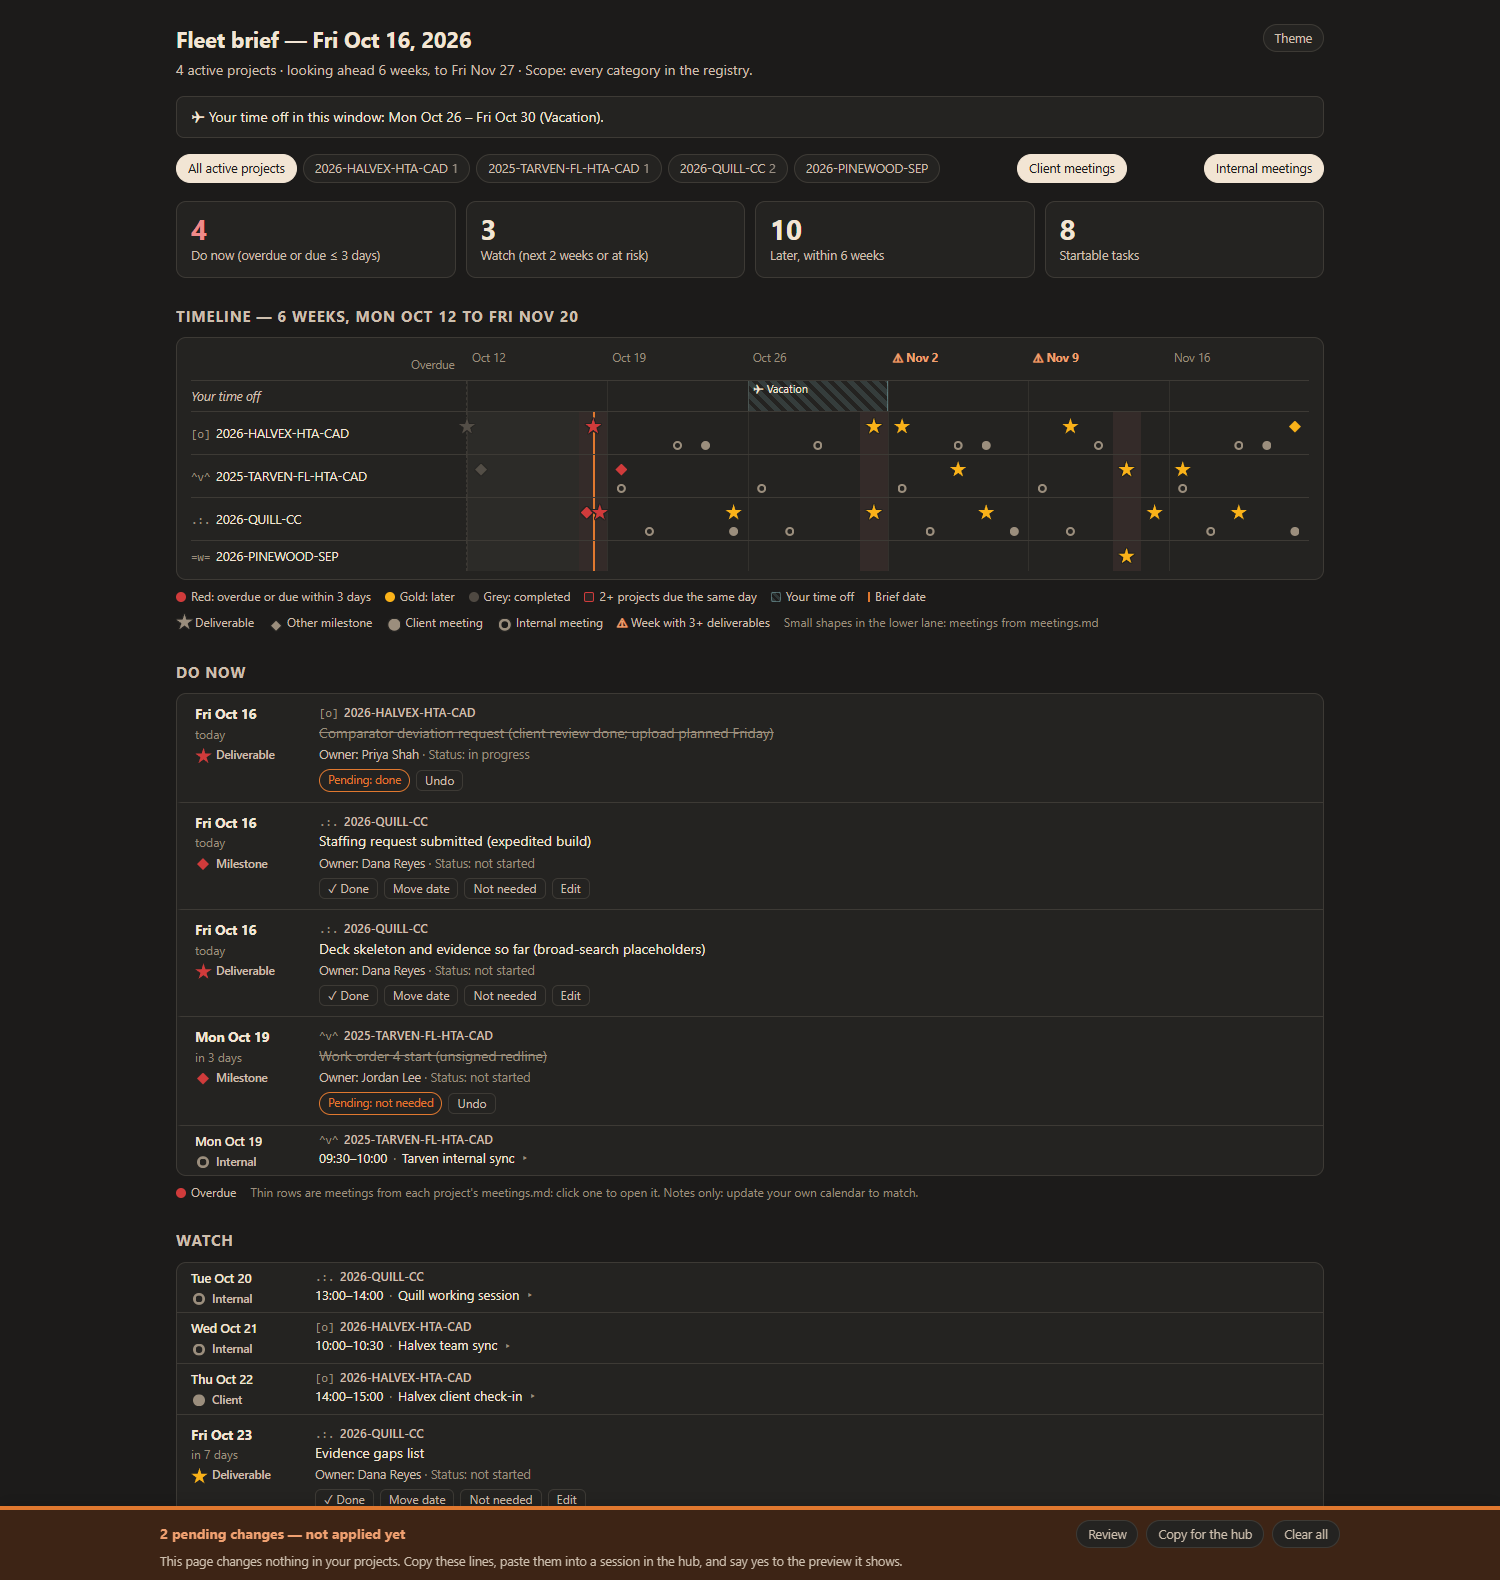
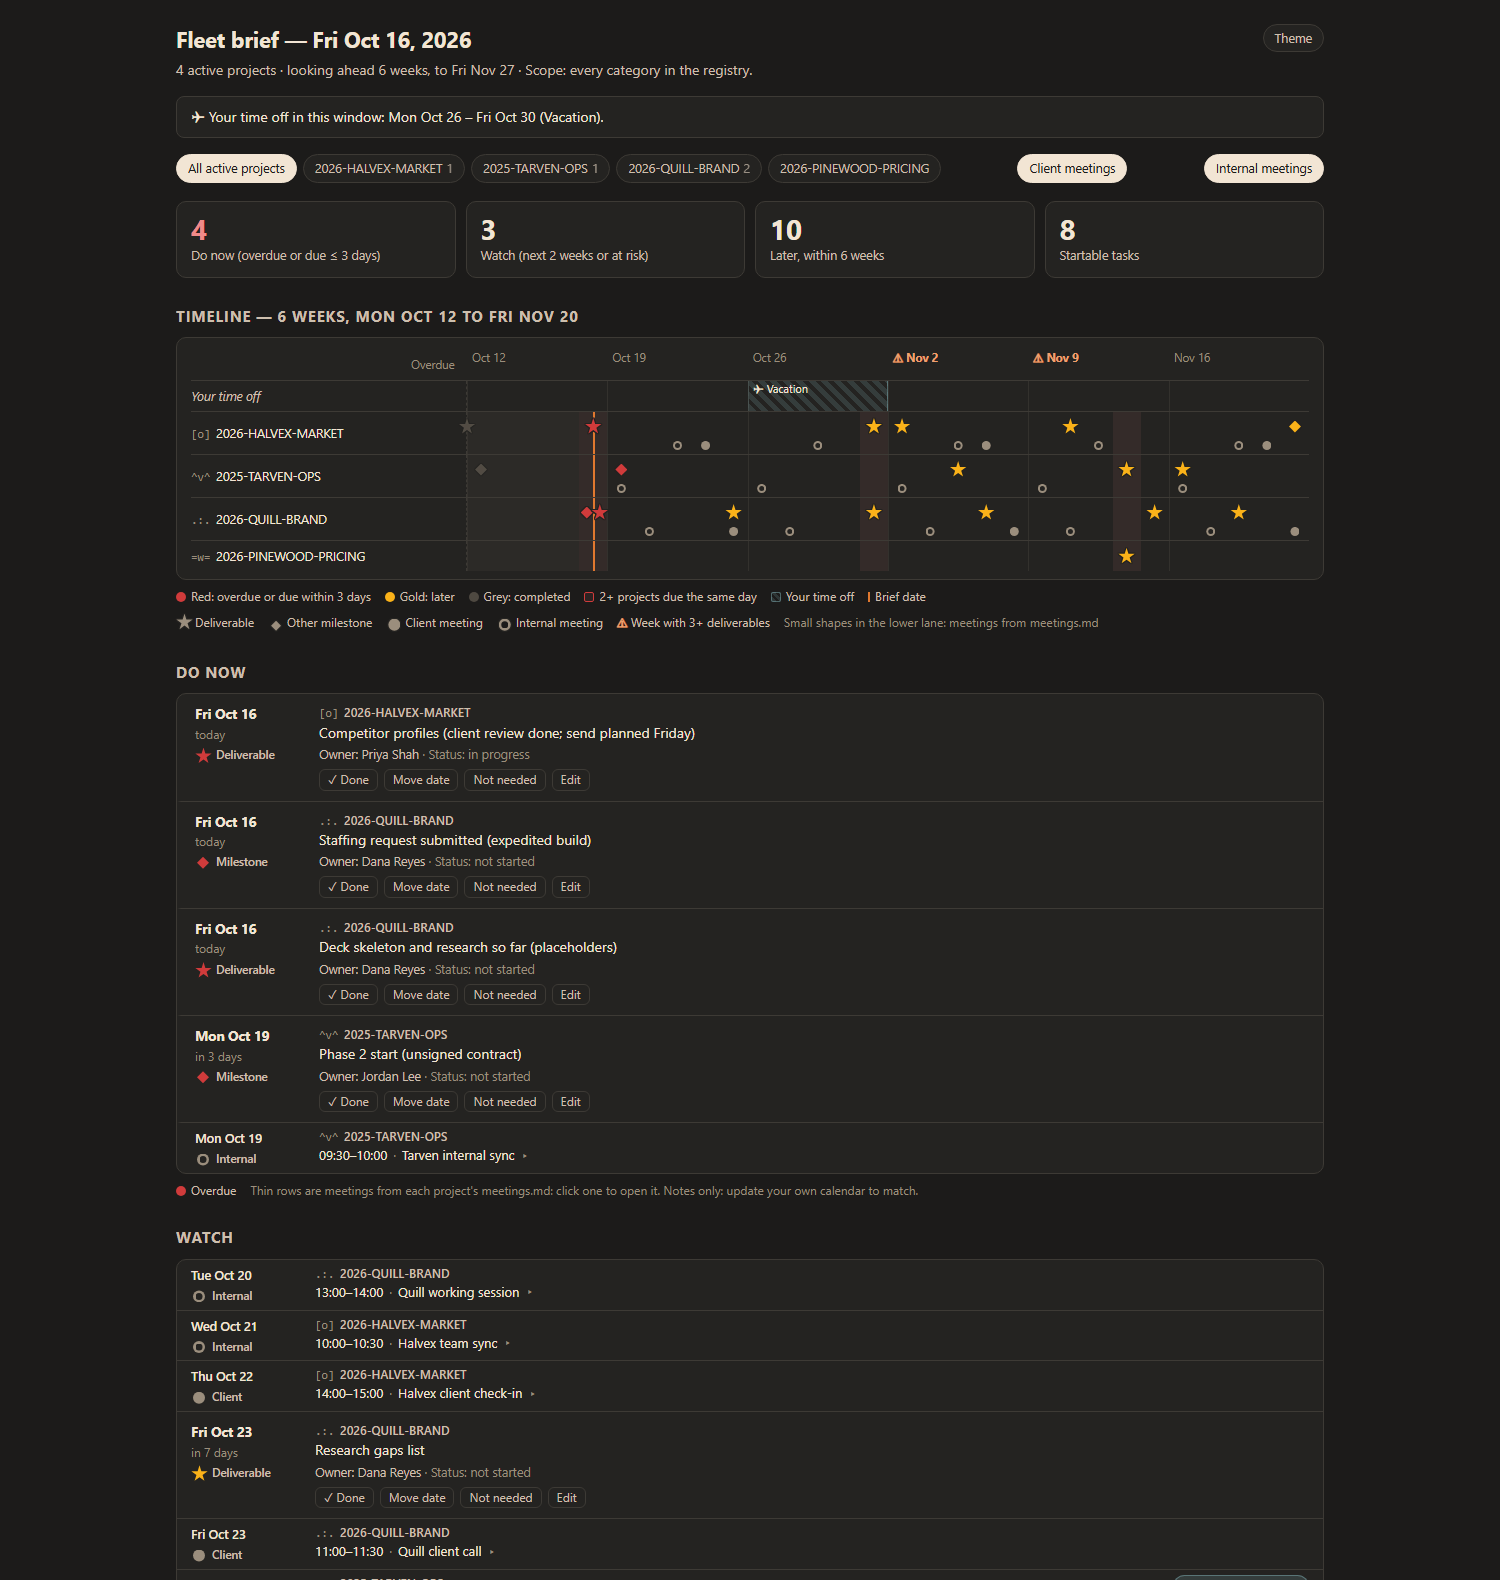
familiar-hub 1.0.1: bundled project_check from core 1.0.1, generic fleet screenshot

diff --git a/scripts/bundled/project_check.py b/scripts/bundled/project_check.py
@@ -81,7 +81,7 @@ INDEX_PATH_LIMIT = 200
 INDEX_BYTES_LIMIT = 20 * 1024
 SCRATCH_BYTES_LIMIT = 50 * 1024 * 1024
 SCRATCH_AGE_DAYS = 14
-TOP_LEVEL_OK = re.compile(r"^(\d-.*|_del|_backups|\.(agents|claude|codex|gemini|familiar|scratch|git|github|vscode|idea|obsidian))$")
+TOP_LEVEL_OK = re.compile(r"^(\d-.*|_del|_backups|_update|\.(agents|claude|codex|gemini|familiar|scratch|git|github|vscode|idea|obsidian))$")
 TOP_LEVEL_TMP = re.compile(r"(tmp|temp|scratch|cache)", re.IGNORECASE)
 
 
@@ -475,6 +475,36 @@ def check_pages(root: Path, r: Report):
               + (" …" if len(unstamped) > 8 else ""))
 
 
+def check_review_dates(root: Path, today: date, r: Report):
+    """Knowledge pages past their `review_by` date (ingest.md → Source dates and conflicts). A page
+    already superseded, or with no ISO date ("not scheduled"), is skipped. Reports only; it never
+    re-dates or rewrites a page."""
+    folder = root / "3-Knowledge"
+    if not folder.is_dir():
+        return
+    try:
+        sys.dont_write_bytecode = True
+        sys.path.insert(0, str(Path(__file__).resolve().parent))
+        import index_check
+    except ImportError:
+        return
+    overdue = []
+    for page in sorted(folder.glob("*.md")):
+        if page.name.startswith("_"):
+            continue
+        fm = index_check.front_matter(read(page))
+        if index_check.page_names(fm.get("superseded_by", "")):
+            continue
+        dates = iso_dates(fm.get("review_by", ""))
+        if dates and dates[0] < today:
+            overdue.append(f"{page.name} (review by {dates[0]})")
+    if overdue:
+        level, prefix = ("attention", "") if r.lifecycle == "active" else ("info", f"(project is {r.lifecycle}) ")
+        r.add("knowledge", level, f"{prefix}{len(overdue)} knowledge page(s) past their review-by date; check "
+              "each against its source before relying on it: " + "; ".join(overdue[:8])
+              + (" …" if len(overdue) > 8 else ""))
+
+
 def check_register(root: Path, r: Report):
     """Plan E2. The register is written by the ingest skill's source_register.py; this only reads it."""
     text = read(root / "3-Knowledge" / "_source-register.md")
@@ -699,7 +729,7 @@ def main():
     for check in (check_setup, check_knowledge, check_pages, check_inputs, check_register, check_hygiene):
         check(root, report)
     for check in (check_snapshot, check_tasks, check_timeline, check_views, check_meetings, check_drafts,
-                  check_handoffs):
+                  check_handoffs, check_review_dates):
         check(root, today, report)
 
     if args.json:
